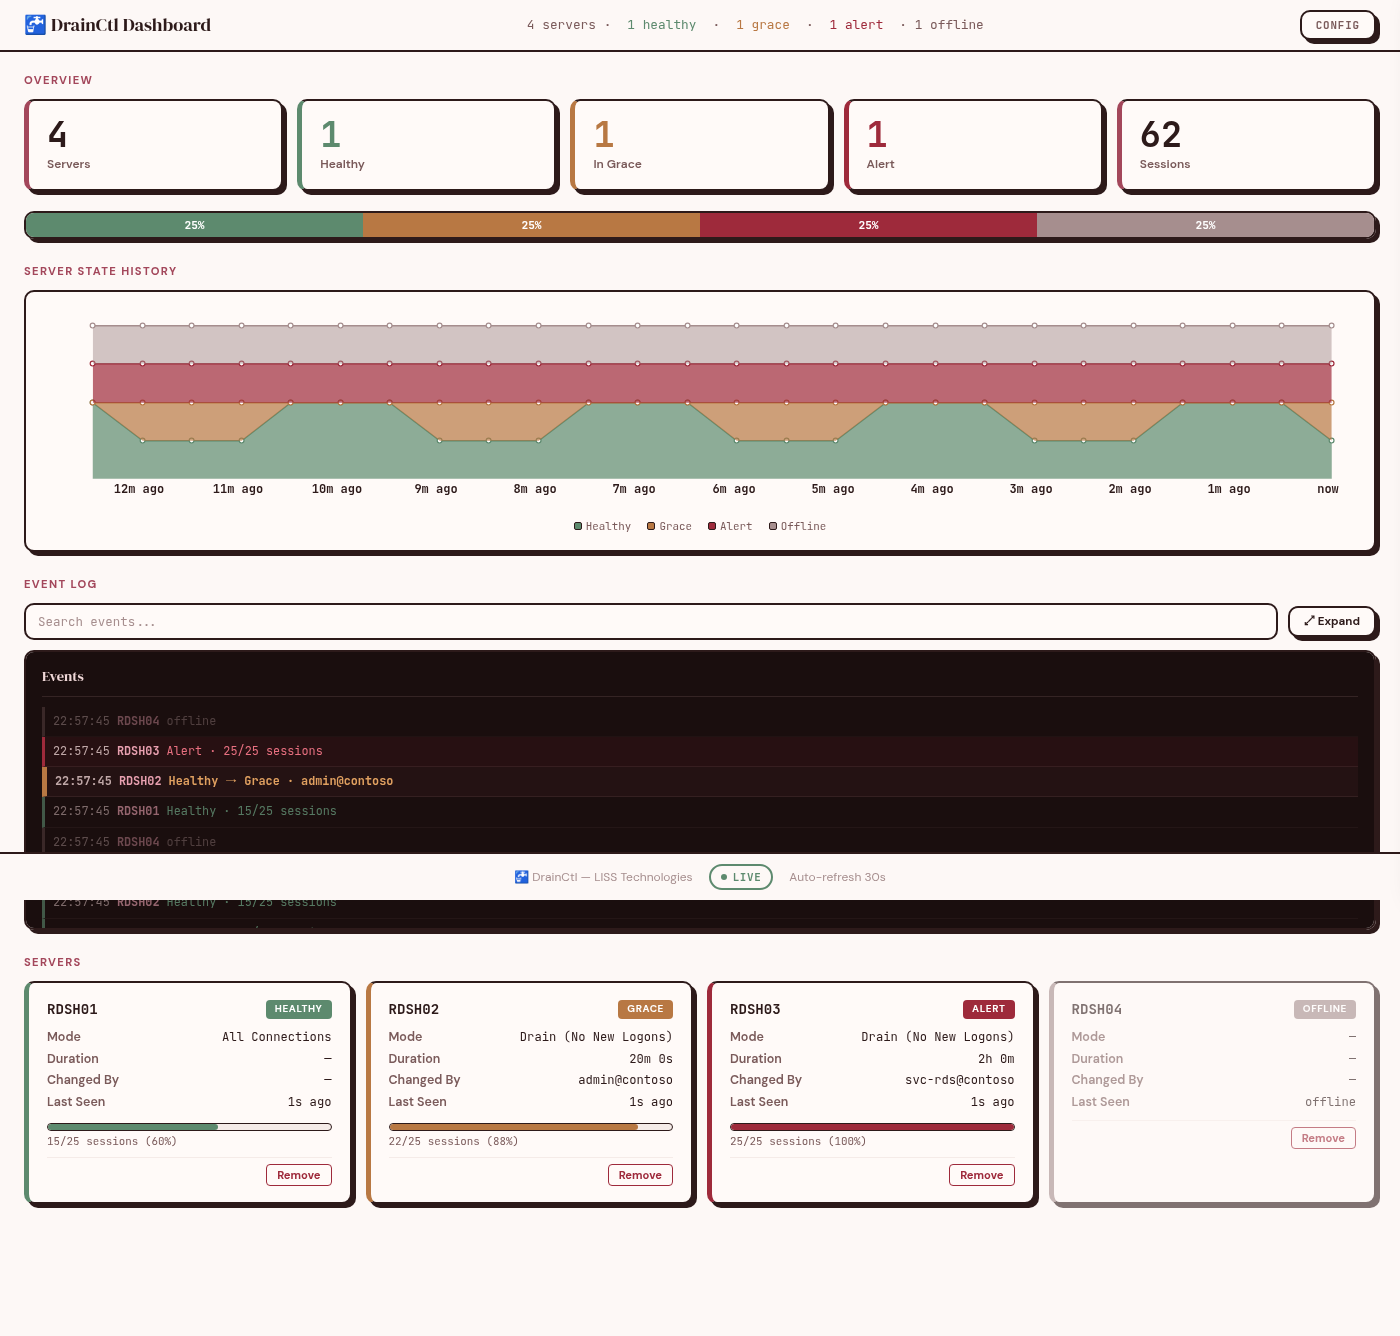
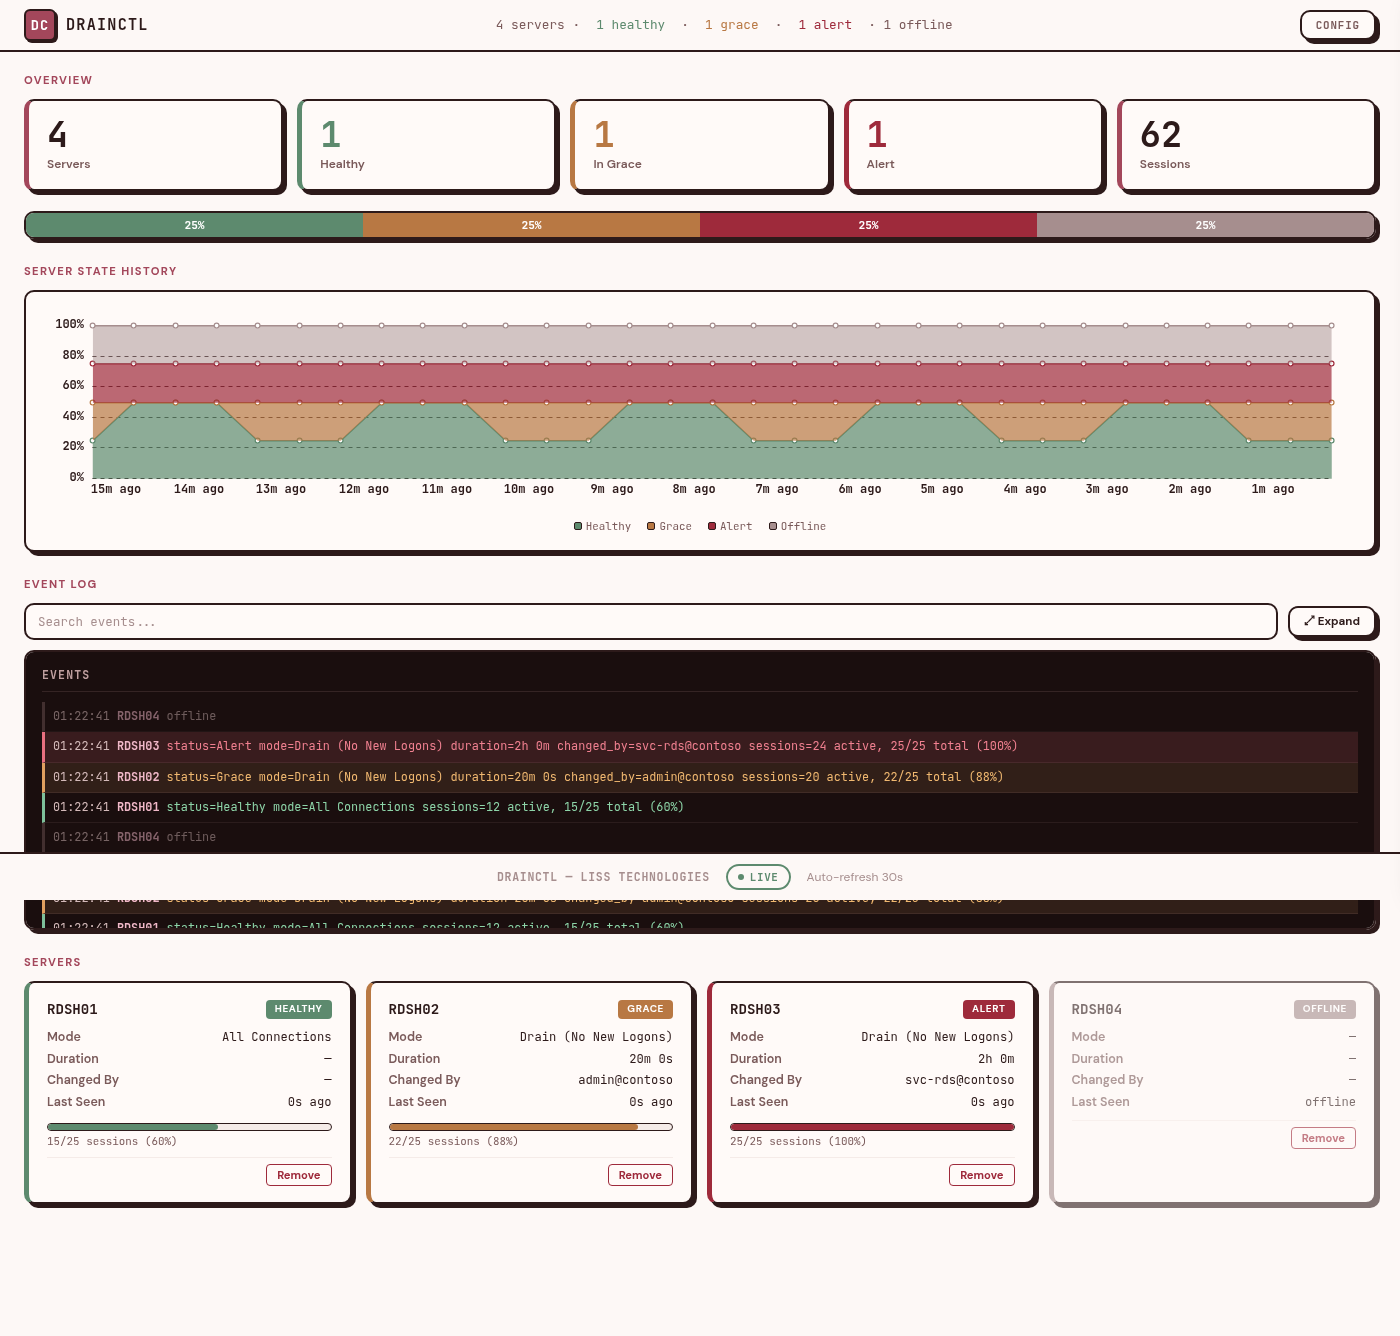
Dashboard: fix chart overflow, add dark mode screenshot to landing page (#37)
- Clear innerHTML before uPlot renders (prevents overlap with empty state)
- Add overflow:hidden to chart container
- Landing page: light/dark dashboard screenshots via <picture> element
- Fresh screenshots with populated chart and event log

diff --git a/internal/dashboard/dashboard.html b/internal/dashboard/dashboard.html
@@ -55,7 +55,7 @@ body{font-family:'DM Sans',sans-serif;background:var(--bg);color:var(--fg);line-
 
 /* Chart */
 .chart-wrap{margin-bottom:24px}
-.chart{border:var(--bw) solid var(--border);border-radius:var(--r);box-shadow:var(--so) var(--so) 0 var(--shadow);background:var(--card);padding:16px 18px;position:relative}
+.chart{border:var(--bw) solid var(--border);border-radius:var(--r);box-shadow:var(--so) var(--so) 0 var(--shadow);background:var(--card);padding:16px 18px;position:relative;overflow:hidden}
 .chart .uplot{width:100%!important;min-width:0}.chart canvas{border-radius:6px}
 .chart-legend{display:flex;gap:16px;justify-content:center;margin-top:10px;font-family:'JetBrains Mono',monospace;font-size:.68rem;color:var(--muted)}
 .chart-legend span{display:flex;align-items:center;gap:4px}
@@ -367,6 +367,7 @@ function renderChart(){
   const data=[xs];
   layers.forEach((l,li)=>{data.push(history.map(d=>{const total=d.t||1;let cum=0;for(let j=0;j<=li;j++)cum+=(d[layers[j]]||0);return cum/total*100;}));});
   if(chartInstance){chartInstance.destroy();chartInstance=null;}
+  el.innerHTML='';
   const opts={width:el.clientWidth,height:200,cursor:{show:false},legend:{show:false},select:{show:false},
     axes:[
       {// X-axis: relative time

diff --git a/docs/index.html b/docs/index.html
@@ -558,7 +558,10 @@ body {
     <div class="section-desc">See every server's drain state, session count, and alert history on a single page. Enable the dashboard on one server, point the others at it, and you're done.</div>
 
     <div style="margin-bottom:28px">
-      <img src="dashboard-screenshot.png" alt="DrainCtl Dashboard showing server overview, state history chart, and server cards with session gauges" style="width:100%;border:var(--bw) solid var(--border);border-radius:var(--r);box-shadow:var(--so) var(--so) 0 var(--shadow)">
+      <picture>
+        <source srcset="dashboard-screenshot-dark.png" media="(prefers-color-scheme: dark)">
+        <img src="dashboard-screenshot.png" alt="DrainCtl Dashboard showing server overview, state history chart, and server cards with session gauges" style="width:100%;border:var(--bw) solid var(--border);border-radius:var(--r);box-shadow:var(--so) var(--so) 0 var(--shadow)">
+      </picture>
     </div>
 
     <div class="install-grid">
